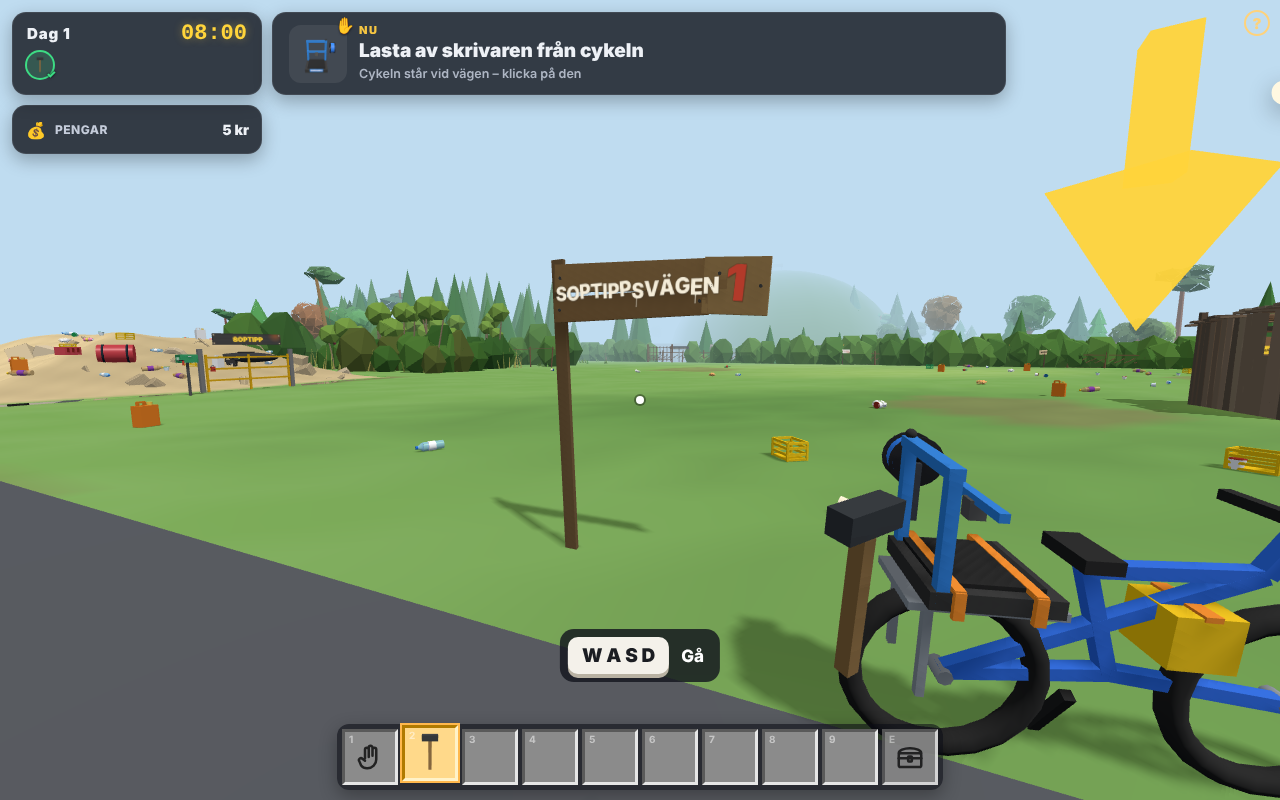
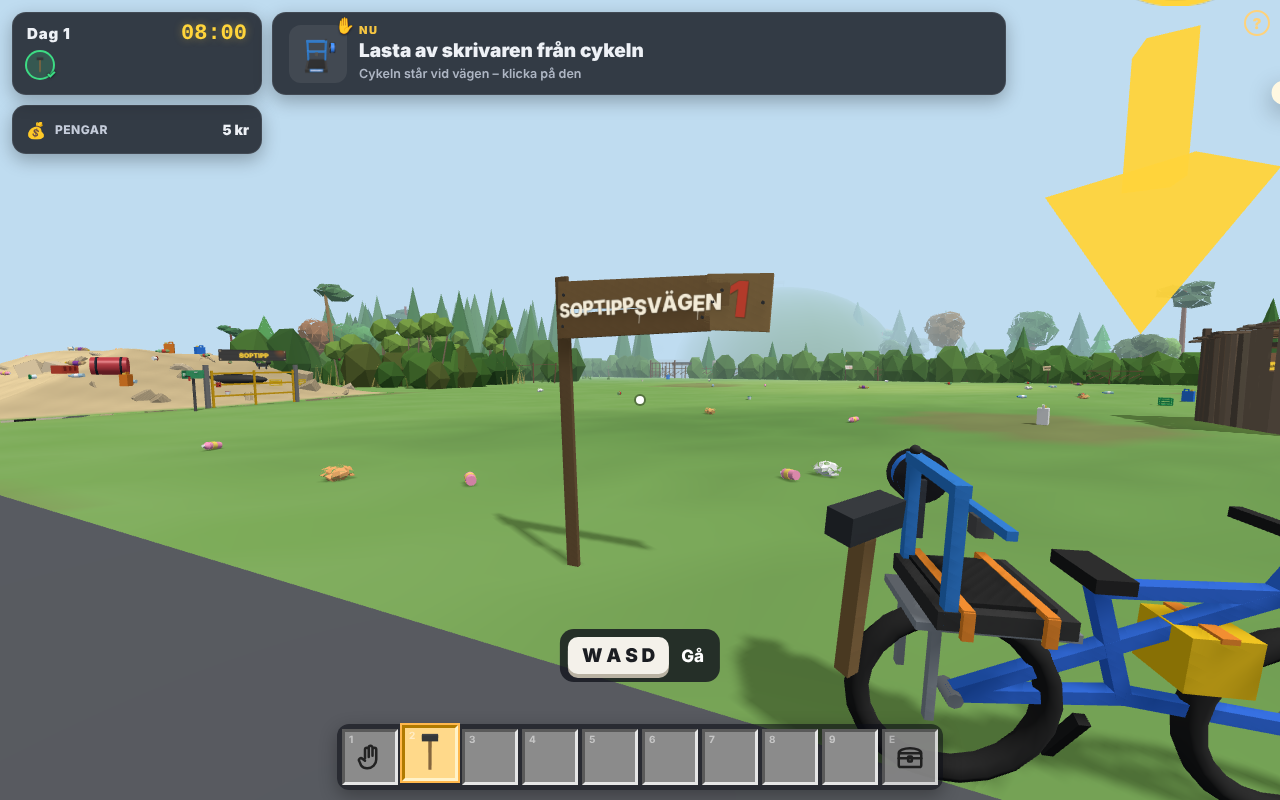
A-076 tillägg 13:45: hammaren ligger på brädorna, en hammare i slaget
- hammaren på brädhögen tas upp med ett klick och hamnar i verktygsraden; brädorna utan hammare: "Jag behöver hammaren." och blicken på hammaren
- kontrollerna: ta upp → hjulet ("Rulla hjulet för att ta hammaren") → använda → ställa ned → vrida
- slaget: hammaren i handen döljs medan slaganimationen går – en enda hammare; ny regel DUBBLETT I HANDEN
- boten tar hammaren först; test-a076e (skärmdump mitt i slaget), test-a083, test-a076, test-a076f och test-dag1-ordning gröna

Claude-Session: https://claude.ai/code/session_014156cp9JxbGsW1A8ZsF5gD

diff --git a/spel/printa-hem/spel.js b/spel/printa-hem/spel.js
@@ -881,7 +881,7 @@ S.sms = S.sms || []; S.olasta = 0; S.mobil = true; S.dag = S.dag || (S.sang ? 2 
 S.kistan = Array.isArray(S.kistan) ? S.kistan : Array(KISTA_PLATSER).fill(null); while (S.kistan.length < KISTA_PLATSER) S.kistan.push(null);
 S.ryggsack = Array.from({ length: S.storRyggsack ? RYGG_STOR : RYGG_BAS }, (_, i) => (Array.isArray(S.ryggsack) && S.ryggsack[i]?.n > 0 ? S.ryggsack[i] : null));
 S.hotbar = Array.from({ length: HOTBAR }, (_, i) => (i > 0 && Array.isArray(S.hotbar) && S.hotbar[i]?.n > 0 ? S.hotbar[i] : null));
-if (!S.skyltUppe && !S.hammareGiven) { S.hammareGiven = true; if (!S.hotbar.some((x) => x?.typ === 'hammare')) S.hotbar[1] = { typ: 'hammare', n: 1 }; }   /* A-076 tillägg 12:25: hammaren ligger på plats 2 från start – hjulet är det första man lär sig */
+/* A-076 tillägg 13:45: hammaren ligger på brädorna (ersätter "hammaren från start" i 12:25) */   /* A-076 tillägg 12:25: hammaren ligger på plats 2 från start – hjulet är det första man lär sig */
 S.vald = S.vald || 0; S.ritningar = S.ritningar || []; S.karraLast = Array.isArray(S.karraLast) ? S.karraLast : [];
 if (S.steg > STEG.length) S.steg = STEG.length;
 // DT: ny start – skrivaren, rulltornet och cykeln står på gården från början, startpengarna räcker exakt till kvarnen.
@@ -1538,15 +1538,17 @@ function kollaSkylt() {
 }
 setInterval(() => { kollaSkylt(); if (S.skyltUppe && S.dag >= 2 && !S.skyltAli && ui.igang && !sover) { S.skyltAli = true; sparaSnart(); sms(...SKYLT_REPLIK[1]); } }, 1500);
 // brädhögen + hammaren där skylten ska stå
-const bradhog = new THREE.Group();
+const bradhog = new THREE.Group(), hammarPaBrador = new THREE.Group();
 {
   const F = [0x8a6a3f, 0x7a5c36, 0x9a7a4a, 0x6d5434];
   // en ordentlig hög: plankor i kors på två bockar + ett par som lutar – syns på håll
   [[1.6, 0.2, 0.0, 0.3], [1.4, 0.18, 0.05, -0.25], [1.5, 0.22, 0.1, 0.15], [0.5, 0.4, 0.15, 0.9], [2.0, 0.12, 0.2, -0.05], [1.2, 0.2, 0.25, 0.4]].forEach(([w, d, y, r], i) => { const m = box(w, 0.05, d, mat(F[i % 4])); m.position.set(0.5, 0.12 + y, 0.06 * i); m.rotation.y = r; bradhog.add(m); });
   for (const x of [0.0, 1.0]) bradhog.add(at(box(0.12, 0.12, 0.5, mat(0x5a4630)), x, 0.06, 0.1));
   for (const [x, rz] of [[1.45, 0.35], [1.6, 0.5]]) { const m = box(0.2, 1.3, 0.04, mat(0x8a6a3f)); m.position.set(x, 0.6, -0.1); m.rotation.z = rz; bradhog.add(m); }
-  const skaft = box(0.03, 0.03, 0.32, mat(0x6b4a2a)); skaft.position.set(1.05, 0.2, 0.2); skaft.rotation.y = 0.5; bradhog.add(skaft);
-  const huvud = box(0.12, 0.05, 0.05, mat(0x444444)); huvud.position.set(1.12, 0.2, 0.34); huvud.rotation.y = 0.5; bradhog.add(huvud);
+  /* A-076 tillägg 13:45: hammaren ligger på brädorna och tas upp med ett klick */
+  const skaft = box(0.03, 0.03, 0.32, mat(0x6b4a2a)); skaft.position.set(1.05, 0.2, 0.2); skaft.rotation.y = 0.5; hammarPaBrador.add(skaft);
+  const huvud = box(0.12, 0.05, 0.05, mat(0x444444)); huvud.position.set(1.12, 0.2, 0.34); huvud.rotation.y = 0.5; hammarPaBrador.add(huvud);
+  traffYta(hammarPaBrador, 0.45, 0.25, 0.45, 1.08, 0.2, 0.27); bradhog.add(hammarPaBrador);
   bradhog.position.set(VAG_SKYLT.x - 1.3, 0, VAG_SKYLT.z - 0.1); scen.add(bradhog);   /* A-062 v3: vid sidan av, inte framför kameran */
 }
 // kapitelkort: stor rubrik mitt i bild några sekunder – säger vad kapitlet går ut på, inget mer
@@ -1586,6 +1588,7 @@ function spikaAnim(o, klar) {
   const slag = o.slag || 5, tid = o.tid || 2.7;
   spikAnim = { ...o, slag, tid, t: 0, t0: performance.now(), gjorda: 0, klar, yaw0: spelare.yaw, pitch0: spelare.pitch };
   spelare.aktiv = false; hammare.visible = true; gripVerktyg.userData.dold = gripVerktyg.visible; gripVerktyg.visible = false;
+  hand.grupp.userData.foreSpik = hand.grupp.visible; hand.grupp.visible = false;   /* A-076 tillägg 13:45: en hammare – den i handen döljs medan slaget går */
   return true;
 }
 function spikaTick(dt) {
@@ -1608,7 +1611,7 @@ function spikaTick(dt) {
     A.steg?.[i]?.(i);
   }
   if (A.t >= A.tid + 0.15) {
-    spikAnim = null; hammare.visible = false; hammare.rotation.x = 0; gripVerktyg.visible = !!gripVerktyg.userData.dold; spelare.aktiv = true;
+    spikAnim = null; hammare.visible = false; hammare.rotation.x = 0; gripVerktyg.visible = !!gripVerktyg.userData.dold; spelare.aktiv = true; hand.grupp.visible = hand.grupp.userData.foreSpik !== false;
     A.klar?.();
   }
 }
@@ -1639,6 +1642,12 @@ function spikaSkylt() {
     if (!S.hammareGiven) { S.hammareGiven = true; laggTill('hammare'); }   /* gamla sparfiler: hammaren hamnar i raden efter skylten */
   });
 }
+interaktor.registrera(hammarPaBrador, { text: () => '🔨 Ta hammaren', kanAktivera: () => !S.skyltUppe && !S.hammareGiven, aktivera: () => {
+  if (!harRumFor('hammare')) { regi.info('Verktygsraden är full', 'fel'); return; }
+  S.hammareGiven = true; laggTill('hammare'); hammarPaBrador.visible = false; ljud.plock(); sparaSnart(); handelse('tagit', { sak: 'hammare' });
+} });
+const visaHammarPaBrador = () => { hammarPaBrador.visible = !S.skyltUppe && !S.hammareGiven; };
+setInterval(visaHammarPaBrador, 500); visaHammarPaBrador();
 interaktor.registrera(bradhog, { text: () => (kanNu('spika').ja ? 'Spika ihop en skylt av brädorna vid vägen – det här är MITT' : kanNu('spika').skal), aktivera: () => { const svar = kanNu('spika'); if (!svar.ja) { visaNej(svar); return; } spikaSkylt(); } });   /* A-076 tillägg 12:25: skylten kräver hammaren i handen */
 
 // kvarnen (plast → filament)
@@ -8062,7 +8071,7 @@ function printKort(x, sk, { forStor, kanInte, saknarRulle }) {
    Svaret är { ja: true } eller { ja: false, skal, bild, vag } – ett nej visar skälet med bild och röst och visar vägen, aldrig en meny som inte leder någonstans. */
 let oppenAtgard = null;   /* vilken åtgärd menyn som är öppen just nu erbjuder (regelvakten: MENY UTAN VÄG) */
 function kanNu(atgard, o = {}) {
-  if (atgard === 'spika') return valdTyp() === 'hammare' || !antalInv('hammare') ? { ja: true } : { ja: false, skal: 'Rulla hjulet för att ta hammaren.', bild: 'hammare', vag: () => {} };
+  if (atgard === 'spika') return valdTyp() === 'hammare' ? { ja: true } : antalInv('hammare') ? { ja: false, skal: 'Rulla hjulet för att ta hammaren.', bild: 'hammare', vag: () => {} } : { ja: false, skal: 'Jag behöver hammaren.', bild: 'hammare', vag: () => { const v = hammarPaBrador.getWorldPosition(new THREE.Vector3()); tittaMot(v.x, v.z, 1.0, { tvang: true, nyckel: 'kanNu-hammare' + S.steg }); pilPulsTill = performance.now() + 2500; } };   /* A-076 tillägg 13:45 */
   if (atgard === 'taSkrivare') return S.skyltUppe ? { ja: true } : { ja: false, skal: 'Först skylten.', bild: 'hammare', vag: () => { const v = bradhog.getWorldPosition(new THREE.Vector3()); tittaMot(v.x, v.z, 1.2, { tvang: true, nyckel: 'kanNu-skylt' + S.steg }); pilPulsTill = performance.now() + 2500; } };   /* A-076 tillägg 12:25 */
   if (atgard === 'printa') {
     const sk = o.sk; if (!sk || sk.jobb || sk.klar) return { ja: true };
@@ -15940,6 +15949,7 @@ if (ui) {
     const syns = [dnTopp.textContent, ...[...document.querySelectorAll('.ph-dagnotis, .ph-notis')].map((e) => e.textContent)].join(' | ');
     const ut = []; for (let j = S.steg + 1; j < STEG.length && STEG[j].del === st.del; j++) { let t = ''; try { t = rens(stegText(STEG[j]) || ''); } catch {} if (t.length > 12 && syns.includes(t) && !rens(String(malRaw || '')).includes(t)) ut.push(`"${t.slice(0, 50)}" syns före sin tur`); }
     if (/\bav \d+ · sedan sova|Dagens mål \d/.test(syns)) ut.push('dagens mål räknas upp'); return ut.slice(0, 3); }, { enGang: true });
+  regelvakt.regel('DUBBLETT I HANDEN', () => { const hv = (o) => { for (let x = o; x; x = x.parent) if (!x.visible) return false; return true; }; const ut = []; if (hv(hammare) && hv(hand.grupp) && valdTyp() === 'hammare') ut.push('två hammare: i handen och i slaget'); if (hv(gripVerktyg) && hv(hand.grupp) && /grip/.test(valdTyp() || '')) ut.push('två gripar'); return ut; }, { enGang: true });   /* A-076 tillägg 13:45 */
   regelvakt.regel('RÖST SAKNAS', () => [...saknadRost].map((v) => `${v} pratar utan egen röst i rost.js`), { enGang: true });   /* A-078 tillägg 11:45 */
   regelvakt.regel('MENY UTAN VÄG', () => { if (!oppenAtgard) return []; if (!menyOppen()) { oppenAtgard = null; return []; } const svar = kanNu(oppenAtgard.atgard, oppenAtgard); return svar.ja ? [] : [`${oppenAtgard.atgard}-menyn är öppen fast ${svar.skal.toLowerCase()}`]; });   /* A-076 tillägg 11:35 */
   regelvakt.regel('MÅL UTAN LEDTRÅD', () => { if (!ui.igang) return []; const st = STEG[S.steg]; return st && !st.sov && !ledtradFor(st) ? [`"${rens(stegText(st) || '').slice(0, 60)}" har ingen ledtråd`] : []; }, { enGang: true });   /* A-083 */
@@ -16033,10 +16043,10 @@ const kStat = { klick: 0, r: 0, e: 0, tab: 0, h: 0, byt: 0, stallt: 0, start: nu
 const STALL_SAKER = ['skrivareS', 'cykelS', 'byggsats:generator', 'byggsats:gammalkvarn'];
 paHandelse('placerat', () => { kStat.stallt++; });
 const KONTROLL_HJALP = [
-  { id: 'byta', k: 'Hjulet eller 1–9', get t() { const h = S.hotbar.findIndex((x) => x?.typ === 'hammare'); return h > 0 && h !== S.vald && !S.skyltUppe ? 'Rulla hjulet för att ta hammaren' : 'Byt sak i handen'; }, nar: () => (S.dag <= 1 && !S.skyltUppe && antalInv('hammare') > 0 && valdTyp() !== 'hammare') || S.hotbar.slice(1).filter(Boolean).length >= 2, klar: () => kStat.byt > 0 || (valdTyp() === 'hammare' && !S.skyltUppe) },   /* A-076 tillägg 12:25: hjulet först – hammaren ligger i raden från start */
   { id: 'ga', k: 'W A S D', t: 'Gå', nar: () => S.dag <= 1 && S.steg <= 1, klar: () => kStat.start && Math.hypot(spelare.pos.x - kStat.start.x, spelare.pos.z - kStat.start.z) > 2.5 },
   { id: 'titta', k: 'Mus', t: 'Titta runt', nar: () => S.dag <= 1 && S.steg <= 1, klar: () => kStat.yaw0 != null && Math.abs(spelare.yaw - kStat.yaw0) + Math.abs(spelare.pitch) > 0.7 },
-  { id: 'klick', k: 'Klick', t: 'Klicka på det du tittar på', nar: () => S.dag <= 1 && !S.skyltUppe && valdTyp() === 'hammare', klar: () => kStat.klick > 0 || S.skyltUppe },
+  { id: 'klick', k: 'Klick', t: 'Klicka för att ta upp det du tittar på', nar: () => S.dag <= 1 && !S.skyltUppe && !S.hammareGiven, klar: () => kStat.klick > 0 || !!S.hammareGiven || S.skyltUppe },   /* A-076 tillägg 13:45: ta upp hammaren först */
+  { id: 'byta', k: 'Hjulet eller 1–9', get t() { const h = S.hotbar.findIndex((x) => x?.typ === 'hammare'); return h > 0 && h !== S.vald && !S.skyltUppe ? 'Rulla hjulet för att ta hammaren' : 'Byt sak i handen'; }, nar: () => (S.dag <= 1 && !S.skyltUppe && antalInv('hammare') > 0 && valdTyp() !== 'hammare') || (kHjalpKlar('klick') && S.hotbar.slice(1).filter(Boolean).length >= 2), klar: () => kStat.byt > 0 || (valdTyp() === 'hammare' && !S.skyltUppe) },   /* A-076 tillägg 12:25: hjulet först – hammaren ligger i raden från start */
   /* A-076 tillägg 11:45: ordningen ta upp → ställ ner → byt sak med hjulet → vrid med R (bara om saken inte får plats, eller vid tredje saken) */
   { id: 'stall', k: 'Klick', t: 'Klicka där den ska stå', nar: () => STALL_SAKER.includes(valdTyp()) || !!spoke.grupp?.visible, klar: () => (kStat.stallt || 0) > 0 },
   { id: 'vrid', k: 'R', t: 'Vrid innan du ställer ner', nar: () => kHjalpKlar('stall') && !!spoke.grupp?.visible && (!spoke.ok || (kStat.stallt || 0) >= 2), klar: () => kStat.r > 0 },
@@ -16237,7 +16247,7 @@ async function oppnaFelrapporter(foralder) {
   pop.querySelector('[data-rensa]').onclick = async () => { await felRensa(); pop.remove(); oppnaFelrapporter(foralder); };
 }
 { const st = document.createElement('style'); st.textContent = '.ph-fel{position:fixed;inset:0;z-index:100000;display:grid;place-items:center;background:rgba(10,12,18,.45)}.ph-fel-ruta{background:#fffaf0;color:#2a2116;border-radius:14px;padding:18px 20px;width:min(440px,90vw);box-shadow:0 10px 40px rgba(0,0,0,.4);font:15px system-ui}.ph-fel-ruta p{margin:6px 0 10px;font-size:13px;opacity:.8}.ph-fel-text{width:100%;box-sizing:border-box;font:15px system-ui;padding:8px 10px;border-radius:8px;border:2px solid #d9c9a8}.ph-fel-knappar{display:flex;gap:8px;justify-content:flex-end;margin-top:10px}.ph-fel-status{display:block;margin-top:6px;opacity:.7}.ph-fel .fp-knapp.sek{color:#2a2116;border:2px solid #2a2116;background:#fff}'; document.head.appendChild(st); }
-window.__printahem = { efterslapande, visaIntroDirekt: () => visaIntro(() => {}, { direkt: true }), matarSlangNu: () => matarSlang, get startKabel() { return startKabel; }, kanNu, oppnaPrintMeny, oppnaSaljlada, renderer, rendera: () => { try { ritaVarldsBubblor(); } catch {} renderer.render(scen, kamera); }, sattHjalpBehov: () => { hjalpBehov = true; }, hjalpNu, ledtradFor, KONTROLL_HJALP, kStat, kHjalpAktiv: () => kHjalpAktiv?.id || null, malPunkt: () => malPunkt(), startRuta: () => startRuta(ui.o.titel, ui.o.text, 'Fortsätt'), felKnapp, felAlla, felRensa, felExport: async () => { const z = await felExport(); const b = new Uint8Array(await z.arrayBuffer()); let t = ''; for (let i = 0; i < b.length; i += 8192) t += String.fromCharCode(...b.subarray(i, i + 8192)); return btoa(t); }, regiLogg: () => REGI_LOGG.slice(), lasTid, regi, tittaMot, regiTestStegText: (k) => stegText(STEG[k]) || '', regiStegFakta: (i) => { const st = STEG[i]; const b = typeof st?.bild === 'function' ? (() => { try { return st.bild(); } catch { return null; } })() : st?.bild; return { sov: !!st?.sov, id: st?.id || '', text: stegText(st) || '', bild: b && ikonBild(b) ? b : null, delar: [] }; }, regiTestSteg: (i) => { S.steg = i; S.skyltUppe = true; malVisasSteg = i; malBockText = ''; const st = STEG[i]; const b = typeof st?.bild === 'function' ? (() => { try { return st.bild(); } catch { return null; } })() : st?.bild; return { sov: !!st?.sov, id: st?.id || '', text: stegText(st) || '', bild: b && ikonBild(b) ? b : null, delar: (() => { try { return (malDelar() || []).map(([t]) => t); } catch { return []; } })() }; },   /* A-080 */ saljTillAli: (t, n) => saljTillAli(t, n), saljPris: (t) => saljPris(t), aliReplNu: () => aliRepl, krT, kollaPrestationer: () => kollaPrestationer(), B, gruvTillGrotta: () => { gruvFard = { t: GRUV_SLUT_T, ner: true }; gruvLage = 'fard'; gruvFramme(); return gruvLage; }, gruvFart: (t, n) => gruvFart(t, n), gruvKameraVid: (t, ner = true) => { const g = gruvFard; gruvFard = { t, ner }; gruvPlacera(gruvVagn, t, ner ? 1 : -1); gruvKamera(); gruvFard = g; }, gruvAk: (ner) => gruvAk(ner), gruvLage: () => gruvLage, gruvFard: () => gruvFard, gruvScen, GRUV_BANA, GRUV_LANGD, GRUV_GC, GRUV_SLUT_T, gruvVagn, bergYta, bengtHus, bengtTradgard, slyKlumpar, sagaSly: (kl) => sagaSly(kl), solparkStor: () => solparkStor(), uppdateraRitning: (dt) => uppdateraRitning(dt), SVACKA, GRUVA, SVACKA_VAG, svackaHojd, svackaSparr, BOMMAR, grop, VASK, stegText: () => stegText(STEG[S.steg]), oppnaMarknad: () => oppnaMarknad(), ritningNu: () => ritning, fastIHanden, konturMal, genStar, GEN_PLATS, CYKEL_RUTA, sangSpoke, kvarnMark, tippHojd, markY, sattTippSteg: (n, snap = true) => { S.tippSteg = n; ritaTippHog(0.05, snap); return tippStegNu; }, tippStegNu: () => tippStegNu, tippU, tippKant, TIPP_HV, husvagnG: () => husvagnG, husvagnHinder, TIPP_INB, tippMalSteg: () => tippMalSteg(), tippSparr, STORYKEDJA, STORYKEDJA_VERSION, KEDJA_TEXT, besokTick: (dt) => uppdateraBesok(dt), froSett: (id, s) => froSett(id, s), froSpoiler, STORYLAGER, FRO_T, kameraAkSteg: (t, frys = false) => { if (!kameraAk) return false; kameraAk.start = performance.now() - t * 1000; kameraAk.frys = frys ? t : null; uppdateraKameraAk(); renderer.render(scen, kamera); return true; }, startaUtsikt: () => startaUtsikt(), tippSvep: () => tippSvep(), visaForeEfter: () => visaForeEfter(), kulle, kameraAk: () => kameraAk, kollaUtsikt: () => kollaUtsikt(), bilFas: () => bil.fas, sopbil, kollaBengt: (dt) => kollaBengt(dt), bengtFig: bengt, privatSkyltar, bengtGrav, stromBehov, solEffekt, FLASK_FORE, spelBild, spelBildCache, startBild: () => { const r = renderer, gs = r.getSize(new THREE.Vector2()), pr = r.getPixelRatio(); kamera.aspect = 1.6; kamera.updateProjectionMatrix(); r.setPixelRatio(1); r.setSize(1280, 800, false); r.render(scen, kamera); const C = document.createElement('canvas'); C.width = 1280; C.height = 800; C.getContext('2d').drawImage(r.domElement, 0, 0); r.setPixelRatio(pr); r.setSize(gs.x, gs.y, false); kamera.aspect = gs.x / gs.y; kamera.updateProjectionMatrix(); return C.toDataURL('image/jpeg', 0.86); }, tidigFanfar, bengtLada, GROP, GRIND, grop, grusGrind, rolfKaparGrinden: () => rolfKaparGrinden(), ritaGrustag: () => ritaGrustag(), kollaBengtAvslojande: () => kollaBengtAvslojande(), BENGT_HUS, BENGT_LADA, BENGT_GRAV, bengtLadaHandlare, ritaNyckelSkylt: () => ritaNyckelSkylt(), kjelleText: (x) => kjelleText(x), HUMOR_T, boterFor: (m) => boterFor(m), boterSyns: (b) => boterSyns(b), CHEFEN, labb, LABB, BAGAR, TRADAR, aktivaTradar, kollaBagar: (t) => kollaBagar(t), kollaLabb: () => kollaLabb(), efterspelTest: () => efterspelTest(), vaskSlapp: (t) => vaskSlapp(t), ader, ritaStart: () => ritaStart(), vev3d: () => vev, dagMoment: (d) => dagMoment(d), SAKER, malKontrakt, rullLapp, THREE, TS, visaLapp: (id) => visaLapp(id), fotografera: (p) => fotografera(p), POLAROID, aliNejFor: (t) => aliNejFor(t), ROLF_LISTA: () => ROLF, STORY_SAKER, hoppaOver, prataNu, volym, rostLage: () => rostLage(), pratarNu: () => performance.now() < pratarTill, valjOsagd, sakModell, ikonModell, ikonLista, renderaIkon, kand, regelvakt, upplast, lasUpp, UPPLAS_FLASK, finns, startTorn, vevEl, MONTERA, TA_PA, taPaVald, monteraPa, notis, malSynligt: () => malVisasSteg === S.steg, kanalLage: () => ({ pausad, igang: ui.igang, anim: animationPagar(), scen: scenPagar(), med: !medEl2.hidden, butik: !ui.butiksOverlay.hidden, overlay: !ui.overlay.hidden, aktiv: kanalAktiv?.text?.slice(0, 40), fri: kanalFri - performance.now(), pratar: pratarTill - performance.now(), lugn: lugnTill - performance.now(), n: kanal.length }), paket, oppnaSaljlada, TRATT_MAX, giAliBonus, tangentTips, stromMax, byggBodTest: () => { Object.assign(bodVal, { ok: true, x: BOD.x, z: BOD.z, r: BOD.r }); byggBodHar(); return !!S.bod; }, aliVill, smsKortKlart, smsFram, smsBubbla, ritaDN, markeraAliIdag, dnRaknare, filTillg, dragTorn, tornPlats, tornRullar, slangNar, rullTornAktivera, flyttaSkrivarRullar, anvandSkrivare,
+window.__printahem = { efterslapande, hammarPaBrador, hammare, hand, visaIntroDirekt: () => visaIntro(() => {}, { direkt: true }), matarSlangNu: () => matarSlang, get startKabel() { return startKabel; }, kanNu, oppnaPrintMeny, oppnaSaljlada, renderer, rendera: () => { try { ritaVarldsBubblor(); } catch {} renderer.render(scen, kamera); }, sattHjalpBehov: () => { hjalpBehov = true; }, hjalpNu, ledtradFor, KONTROLL_HJALP, kStat, kHjalpAktiv: () => kHjalpAktiv?.id || null, malPunkt: () => malPunkt(), startRuta: () => startRuta(ui.o.titel, ui.o.text, 'Fortsätt'), felKnapp, felAlla, felRensa, felExport: async () => { const z = await felExport(); const b = new Uint8Array(await z.arrayBuffer()); let t = ''; for (let i = 0; i < b.length; i += 8192) t += String.fromCharCode(...b.subarray(i, i + 8192)); return btoa(t); }, regiLogg: () => REGI_LOGG.slice(), lasTid, regi, tittaMot, regiTestStegText: (k) => stegText(STEG[k]) || '', regiStegFakta: (i) => { const st = STEG[i]; const b = typeof st?.bild === 'function' ? (() => { try { return st.bild(); } catch { return null; } })() : st?.bild; return { sov: !!st?.sov, id: st?.id || '', text: stegText(st) || '', bild: b && ikonBild(b) ? b : null, delar: [] }; }, regiTestSteg: (i) => { S.steg = i; S.skyltUppe = true; malVisasSteg = i; malBockText = ''; const st = STEG[i]; const b = typeof st?.bild === 'function' ? (() => { try { return st.bild(); } catch { return null; } })() : st?.bild; return { sov: !!st?.sov, id: st?.id || '', text: stegText(st) || '', bild: b && ikonBild(b) ? b : null, delar: (() => { try { return (malDelar() || []).map(([t]) => t); } catch { return []; } })() }; },   /* A-080 */ saljTillAli: (t, n) => saljTillAli(t, n), saljPris: (t) => saljPris(t), aliReplNu: () => aliRepl, krT, kollaPrestationer: () => kollaPrestationer(), B, gruvTillGrotta: () => { gruvFard = { t: GRUV_SLUT_T, ner: true }; gruvLage = 'fard'; gruvFramme(); return gruvLage; }, gruvFart: (t, n) => gruvFart(t, n), gruvKameraVid: (t, ner = true) => { const g = gruvFard; gruvFard = { t, ner }; gruvPlacera(gruvVagn, t, ner ? 1 : -1); gruvKamera(); gruvFard = g; }, gruvAk: (ner) => gruvAk(ner), gruvLage: () => gruvLage, gruvFard: () => gruvFard, gruvScen, GRUV_BANA, GRUV_LANGD, GRUV_GC, GRUV_SLUT_T, gruvVagn, bergYta, bengtHus, bengtTradgard, slyKlumpar, sagaSly: (kl) => sagaSly(kl), solparkStor: () => solparkStor(), uppdateraRitning: (dt) => uppdateraRitning(dt), SVACKA, GRUVA, SVACKA_VAG, svackaHojd, svackaSparr, BOMMAR, grop, VASK, stegText: () => stegText(STEG[S.steg]), oppnaMarknad: () => oppnaMarknad(), ritningNu: () => ritning, fastIHanden, konturMal, genStar, GEN_PLATS, CYKEL_RUTA, sangSpoke, kvarnMark, tippHojd, markY, sattTippSteg: (n, snap = true) => { S.tippSteg = n; ritaTippHog(0.05, snap); return tippStegNu; }, tippStegNu: () => tippStegNu, tippU, tippKant, TIPP_HV, husvagnG: () => husvagnG, husvagnHinder, TIPP_INB, tippMalSteg: () => tippMalSteg(), tippSparr, STORYKEDJA, STORYKEDJA_VERSION, KEDJA_TEXT, besokTick: (dt) => uppdateraBesok(dt), froSett: (id, s) => froSett(id, s), froSpoiler, STORYLAGER, FRO_T, kameraAkSteg: (t, frys = false) => { if (!kameraAk) return false; kameraAk.start = performance.now() - t * 1000; kameraAk.frys = frys ? t : null; uppdateraKameraAk(); renderer.render(scen, kamera); return true; }, startaUtsikt: () => startaUtsikt(), tippSvep: () => tippSvep(), visaForeEfter: () => visaForeEfter(), kulle, kameraAk: () => kameraAk, kollaUtsikt: () => kollaUtsikt(), bilFas: () => bil.fas, sopbil, kollaBengt: (dt) => kollaBengt(dt), bengtFig: bengt, privatSkyltar, bengtGrav, stromBehov, solEffekt, FLASK_FORE, spelBild, spelBildCache, startBild: () => { const r = renderer, gs = r.getSize(new THREE.Vector2()), pr = r.getPixelRatio(); kamera.aspect = 1.6; kamera.updateProjectionMatrix(); r.setPixelRatio(1); r.setSize(1280, 800, false); r.render(scen, kamera); const C = document.createElement('canvas'); C.width = 1280; C.height = 800; C.getContext('2d').drawImage(r.domElement, 0, 0); r.setPixelRatio(pr); r.setSize(gs.x, gs.y, false); kamera.aspect = gs.x / gs.y; kamera.updateProjectionMatrix(); return C.toDataURL('image/jpeg', 0.86); }, tidigFanfar, bengtLada, GROP, GRIND, grop, grusGrind, rolfKaparGrinden: () => rolfKaparGrinden(), ritaGrustag: () => ritaGrustag(), kollaBengtAvslojande: () => kollaBengtAvslojande(), BENGT_HUS, BENGT_LADA, BENGT_GRAV, bengtLadaHandlare, ritaNyckelSkylt: () => ritaNyckelSkylt(), kjelleText: (x) => kjelleText(x), HUMOR_T, boterFor: (m) => boterFor(m), boterSyns: (b) => boterSyns(b), CHEFEN, labb, LABB, BAGAR, TRADAR, aktivaTradar, kollaBagar: (t) => kollaBagar(t), kollaLabb: () => kollaLabb(), efterspelTest: () => efterspelTest(), vaskSlapp: (t) => vaskSlapp(t), ader, ritaStart: () => ritaStart(), vev3d: () => vev, dagMoment: (d) => dagMoment(d), SAKER, malKontrakt, rullLapp, THREE, TS, visaLapp: (id) => visaLapp(id), fotografera: (p) => fotografera(p), POLAROID, aliNejFor: (t) => aliNejFor(t), ROLF_LISTA: () => ROLF, STORY_SAKER, hoppaOver, prataNu, volym, rostLage: () => rostLage(), pratarNu: () => performance.now() < pratarTill, valjOsagd, sakModell, ikonModell, ikonLista, renderaIkon, kand, regelvakt, upplast, lasUpp, UPPLAS_FLASK, finns, startTorn, vevEl, MONTERA, TA_PA, taPaVald, monteraPa, notis, malSynligt: () => malVisasSteg === S.steg, kanalLage: () => ({ pausad, igang: ui.igang, anim: animationPagar(), scen: scenPagar(), med: !medEl2.hidden, butik: !ui.butiksOverlay.hidden, overlay: !ui.overlay.hidden, aktiv: kanalAktiv?.text?.slice(0, 40), fri: kanalFri - performance.now(), pratar: pratarTill - performance.now(), lugn: lugnTill - performance.now(), n: kanal.length }), paket, oppnaSaljlada, TRATT_MAX, giAliBonus, tangentTips, stromMax, byggBodTest: () => { Object.assign(bodVal, { ok: true, x: BOD.x, z: BOD.z, r: BOD.r }); byggBodHar(); return !!S.bod; }, aliVill, smsKortKlart, smsFram, smsBubbla, ritaDN, markeraAliIdag, dnRaknare, filTillg, dragTorn, tornPlats, tornRullar, slangNar, rullTornAktivera, flyttaSkrivarRullar, anvandSkrivare,
   framsteg, skrivarText, framstegKvarn,
   dbgKanal: () => ({ nu: performance.now(), pratarTill, pratarVem, kanalFri, aktiv: kanalAktiv && kanalAktiv.text, n: kanal.length, pausad, igang: ui.igang, anim: animationPagar(), scen: scenPagar(), med: medEl2.hidden, butik: ui.butiksOverlay.hidden, ov: ui.overlay.hidden }),
   textLogg: () => TEXTLOGG.slice(), pratar: () => !!kanalAktiv || kanal.length > 0 || performance.now() < pratarTill || performance.now() < kanalFri, kanal: () => ({ aktiv: kanalAktiv && { vem: kanalAktiv.vem, text: kanalAktiv.text, vikt: kanalAktiv.vikt }, ko: kanal.map((x) => ({ vem: x.vem, text: x.text, vikt: x.vikt })) }), rostMatning, renderaIkon, ikonLista, handelseLogg, ritningInfo: () => { const c = ritning ? new THREE.Box3().setFromObject(ritning).getCenter(new THREE.Vector3()) : null; return { nyckel: ritningNyckel, linjer: ritning?.children.length || 0, printar: printarFram.size, mitt: c && [+c.x.toFixed(2), +c.y.toFixed(2), +c.z.toFixed(2)] }; }, prata, elHelFig: () => [...(elHel || [])], avkodat, forladdaRepliker, introLager, trampa: (sek) => { trampTest = sek; }, veva: (sek) => { vevTest = sek; }, siktaVagg: (v) => { vaggTest = v; }, vaggarKlara: () => vaggarKlara(), tapetKlara: () => tapetKlara(), nastaInred, prisNu, helaRullar, extruderFull, gardMal, kanLyfta, karraFull, harGava, valdKarra, BARA_SKRAP, SKRAP_RACKVIDD, utlagerKap, startPlats, sattFonster: () => { const n = fonsterLista().length; S.hem = { ...(S.hem || {}), fonster: [...fonsterLista(), { vagg: Object.keys(VAGGAR).filter((k) => !/dorr|fram/i.test(k))[n % 3] || Object.keys(VAGGAR)[0], u: 0.5 }] }; ritaFonster(); uppdateraSkjul(); sparaSnart(); }, medKo, medEl2, uppdatera, stegText: () => { const st = STEG[S.steg]; return st ? (typeof st.text === 'function' ? st.text() : st.text) : ''; }, valdTyp: () => valdTyp(), ritaStart, vagCykel, startYta, cykelStall, byggOmCykeln, SI, stegId, planNasta, fabriksplanSvg, kopDirekt, GAMMALT_SPEL, SPAR_ID, helen: helenTest, helenFig, helenBettan: bettan, helenSkjul, helenRuta, helenRutaYta, pratHelen, geHelen, helenNatt, helenMorgon, helenVillkor, HELEN, HELEN_RADER, introBild, nastaPlats, linjeSkrivare, linjeSpolar, ritaPlan, gardPlanBild, PLAN, rostKoll, invDragInfo: () => invDrag, tidTest: (m) => { klockTest = m; linjeTid = 0; }, invAvsluta, spikaAnim, hammare, efterspel: efterspelTest, efterspelKvar, jul: julTest, julScen, julKrans, julRader, lager: lagerTest, tippStadat, lagerFynd, grav, husvagnFri: () => husvagnFri(), oppnaSkapet: () => oppnaSkapet(), goran: goranTest, polaroid: polaroidTest,  tradgard, ritaTradgard, kollaTradgard, rolfVagn, goranFigur: goran, gor, kollaGoran, goranSittplats, kollaPolaroid, ritaPolaroider, oppnaPolaroider, polaroidVagg, POLAROID, byggSkylt, kollaSkylt, skyltVersion, rostManusDetalj: () => { rostManus(); return rostManus.detalj; }, avbrytJobb, ROLF_TACK, elKlipp: (v, t) => elKlipp(v, t), simulera: (sek, steg = 0.1) => { for (let t = 0; t < sek; t += steg) uppdatera(steg); }, oppnaInv, rymsAlla, invKlick, invFlytta, naraKista, kistPos, matDag, jobbNu, rolfFyndPaket, aliHamtarLadan, skickaData, saljladaAktivera, startaTidtipp, nastaKop, rolfMorgonTack, rolfBrevLast, antalUt, startaDirekt, petgKvarn, petgAktivera, petgText, uppdateraPetg, filTyp, solEffekt, stromBehov, saljMarkerad, oppnaMarknad, oppnaPrintMeny, aliKopLista, stegKonkret, aktivGava, harRecept, harPlacerat, ritaNasta, malRawGet: () => malRaw, ikonHtml, skapaRiktig, VAROR, MASKINER, saljPris, aliSaljLista, kollaSamtal, visaBengt, kajsa, aliVink, aliFig: ali, stegBild, humorAv, varldsBubbla, skjulYta, bodGrupp, vridTips, flyttarBod: () => flyttarBod, dagbokLas: () => dagbokLas, pausad: () => pausad, bradhog, sangSpoke, taltSang: tältSäng, rullePlats, rulleMax, nastaAtgard, STEG, sovDags, kvallKlar, maskinStopp, ritaStopp, spikaSkylt, aliRopar, tittaMot, adressSkylt, introMusik, storHus, husHinder, startaResa, kollaResa, resaSteg, FYND, tillgang, arstid, varme, kollaKyla, uppdateraArstid, folkbokfor, kollaPolett, kanFolkbokfora, rolfHus, MARK_TOMTER, tungtFilament, andraRespekt, nivaUpplast, rolfDialekt, geRolfNummer, vantarPaNummer, kollaMarkTips, ruttnaOverNatten, stallIKyl, kylAntal, kompostera, kopMark, oppnaMark, uppdateraMark, paMark, markTavla, oppnaBokmarken, sparaDagBokmarke, lasBokmarken, miljo, placera, stallBurkar, uppdateraPappa, startaPappaBesok, pappaBesok, FIGURER, malPil, spoke, rektKrock, SKJUL, laggSkrap, paTippen, tippaLast, uppdateraAuto, auto, monteraAuto, rostKlipp, rostNyckel, rostManus, familjSms, oppnaJobbVal, hamtaBeloning, oppnaDagbok, oppnaInkorg, kapitel2Slut, TRIM, bodKlar, kapitelSlut, oppnaSparplatser, sparaPlats, lasPlats, HEM_DELAR, uppdateraSkjul, visaIntro, gardSkrap, laggTill, byt, taBortInv, antalInv, kista, extruder, arende, rolfGubbe, sms, ROLF, flak, bom, postLucka, postlada, webbOrdrar, oppnaDator, BESOK, besok, startaBesok, ata, MAT_VARDE, printLinje, migreraDK, kolfKvarn, kolfAktivera, uppdateraKolf, nastaGamer, trimNiva, plockaUppPlacerad, plockaSkrap, karraRing, foremal, variantFor, valjTyp, husvagnKlick, gastScen, gastDelKlar, husvagn: () => husvagnG, rolfBesok, sackRulle, karraKlick, karraMal, pappaGubbe, grind, ALI, bil, sopbil, sov, TIPP, niva, magnetStrale, oppnaForrad, laggIForrad, vevYta, rulle, kamera, spelare, interaktor, hand, S, spar, skrivare, placerade, skrapLista, ui, kvarn, cykel, marknad, talt, trivsel, startaJobb, uppdateraSkrivare, stallNer, kollaUtsikt, lasUpp, upplast, GEN, flaskS, flyttaFelPlacerade, pilBildTyp: () => pilBildTyp, aliBesok, dagMalLista, visaDagNotis, regelvaktKor: () => regelvakt.kor(), spokeGrupp: () => spoke.grupp, bodSpoke, fonsterSpoke, mimikBilder, VYER4 };   /* A-078 */   /* A-076 */   /* A-069 */

diff --git a/verktyg/sim-bot.js b/verktyg/sim-bot.js
@@ -421,6 +421,7 @@
     if (H.TA_PA) for (const t of Object.keys(H.TA_PA)) if (H.antalInv(t)) { valj(t); H.taPaVald(); handling('tar på ' + t.replace('byggsats:', '')); await vanta(0.5); }
     if (H.MONTERA) for (const t of Object.keys(H.MONTERA)) { if (!H.antalInv(t)) continue; const m = H.MONTERA[t], mal = m.mal()[0]; if (!mal || m.hinder?.()) continue; valj(t); await klick(mal, m.namn.toLowerCase()); return; }
     if (H.antalInv('korv')) { valj('korv'); H.ata('korv'); }
+    if (!S.skyltUppe && S.dag === 1 && !S.hammareGiven && H.hammarPaBrador) { await klick(H.hammarPaBrador, 'hammaren på brädorna'); await vanta(1); return; }   /* A-076 13:45: ta hammaren först */
     if (!S.skyltUppe && S.dag === 1) { valj('hammare'); await klick(H.bradhog, 'brädhögen');   /* A-076 tillägg 12:25: hammaren först */ await vanta(4); return; }
     const id = H.stegId(), st = H.STEG[S.steg], txt = (typeof st?.text !== 'function' && window.__stegKanon?.[id]) || H.stegText() || '';   /* A-069 §5: målet hittas på sitt id – en ändrad måltext gör inget (texter som beror på läget läses som de står) */
     if (!st && S.julFirad) {   /* A-042: efterspelet – köp marken som är kvar när pengarna räcker, tjäna under tiden, sov när dagen är slut */
